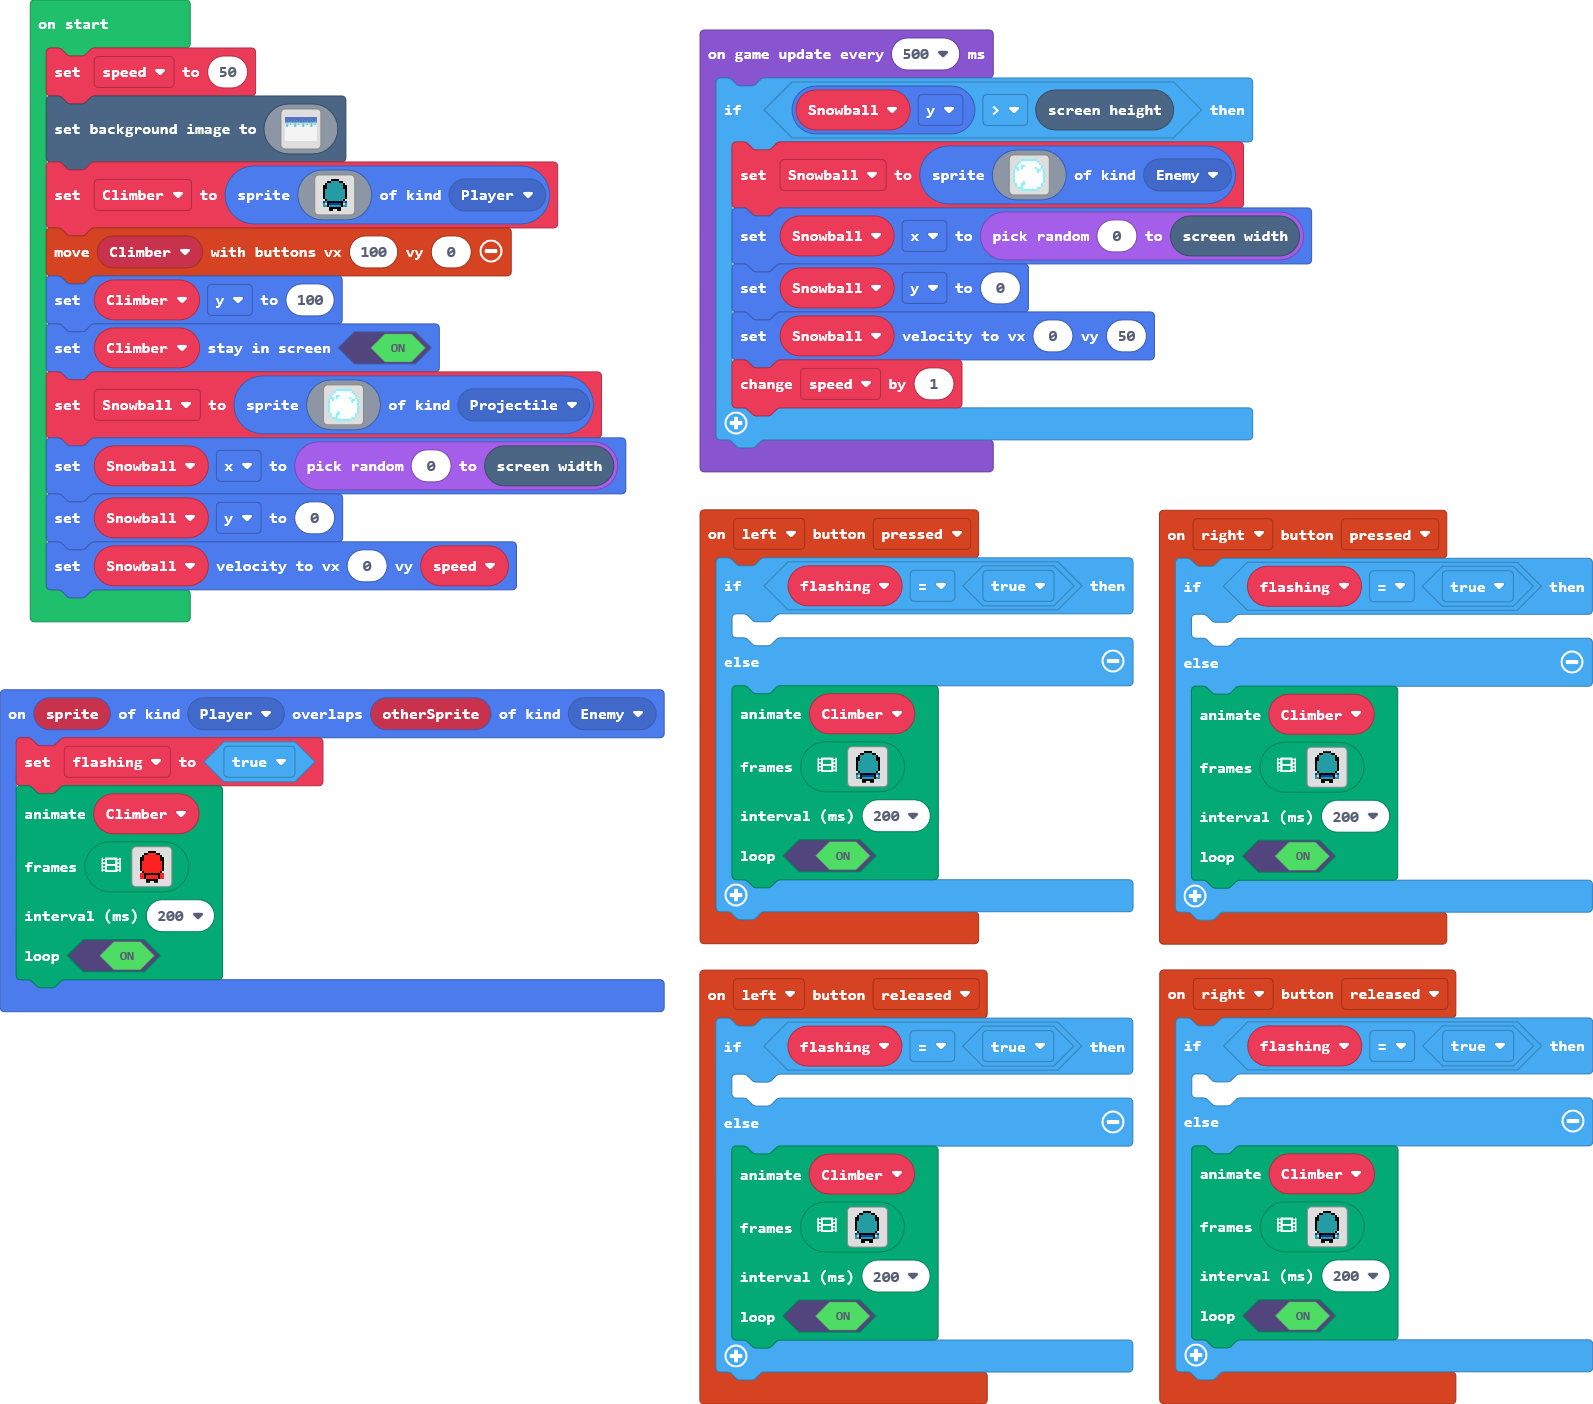
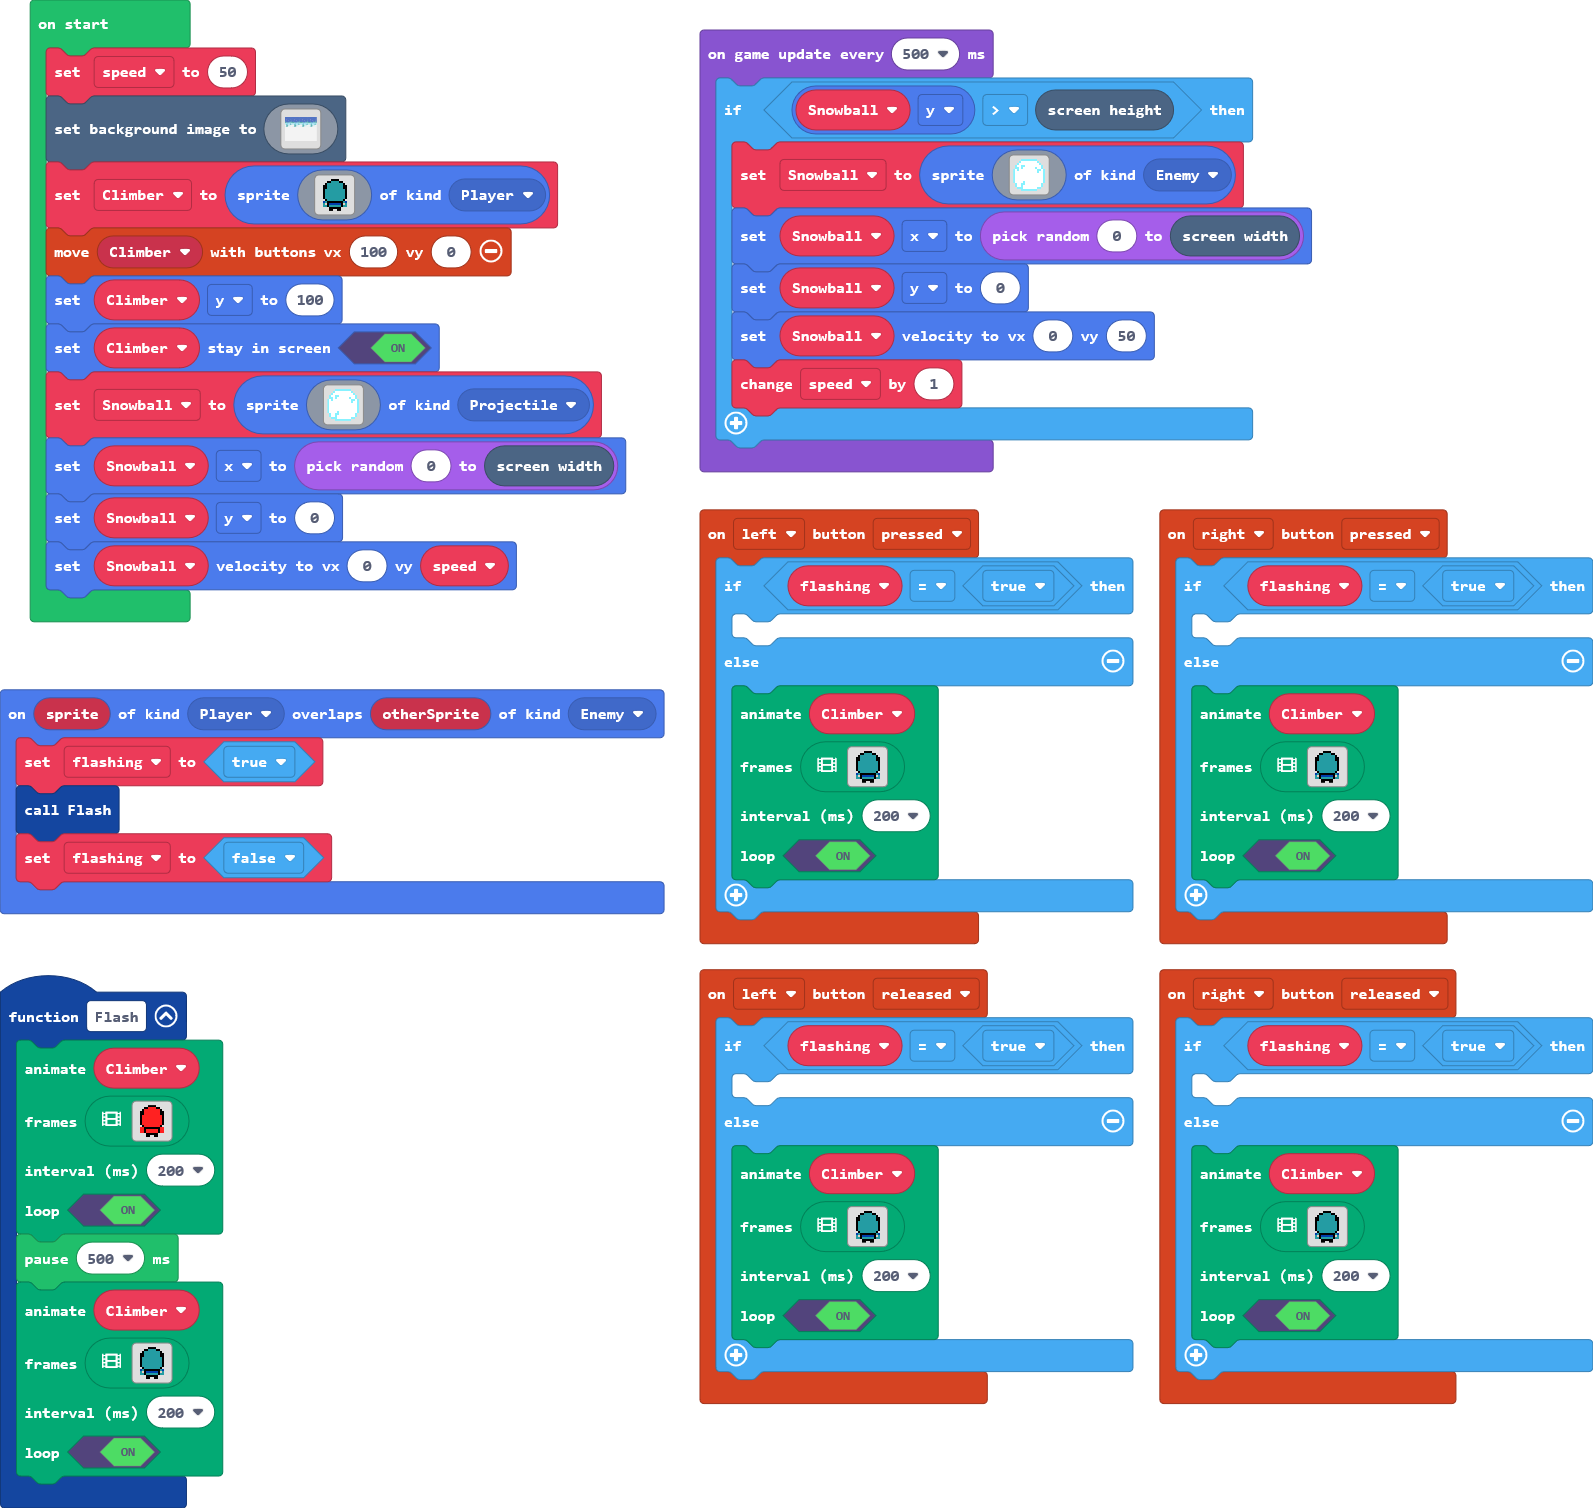
Moved damage anim to a function

diff --git a/main.ts b/main.ts
@@ -46,14 +46,25 @@ controller.right.onEvent(ControllerButtonEvent.Pressed, function () {
         )
     }
 })
-sprites.onOverlap(SpriteKind.Player, SpriteKind.Enemy, function (sprite, otherSprite) {
-    flashing = true
+function Flash () {
     animation.runImageAnimation(
     Climber,
     assets.animation`damage anim`,
     200,
     true
     )
+    pause(500)
+    animation.runImageAnimation(
+    Climber,
+    assets.animation`idle`,
+    200,
+    true
+    )
+}
+sprites.onOverlap(SpriteKind.Player, SpriteKind.Enemy, function (sprite, otherSprite) {
+    flashing = true
+    Flash()
+    flashing = false
 })
 let flashing = false
 let Climber: Sprite = null
